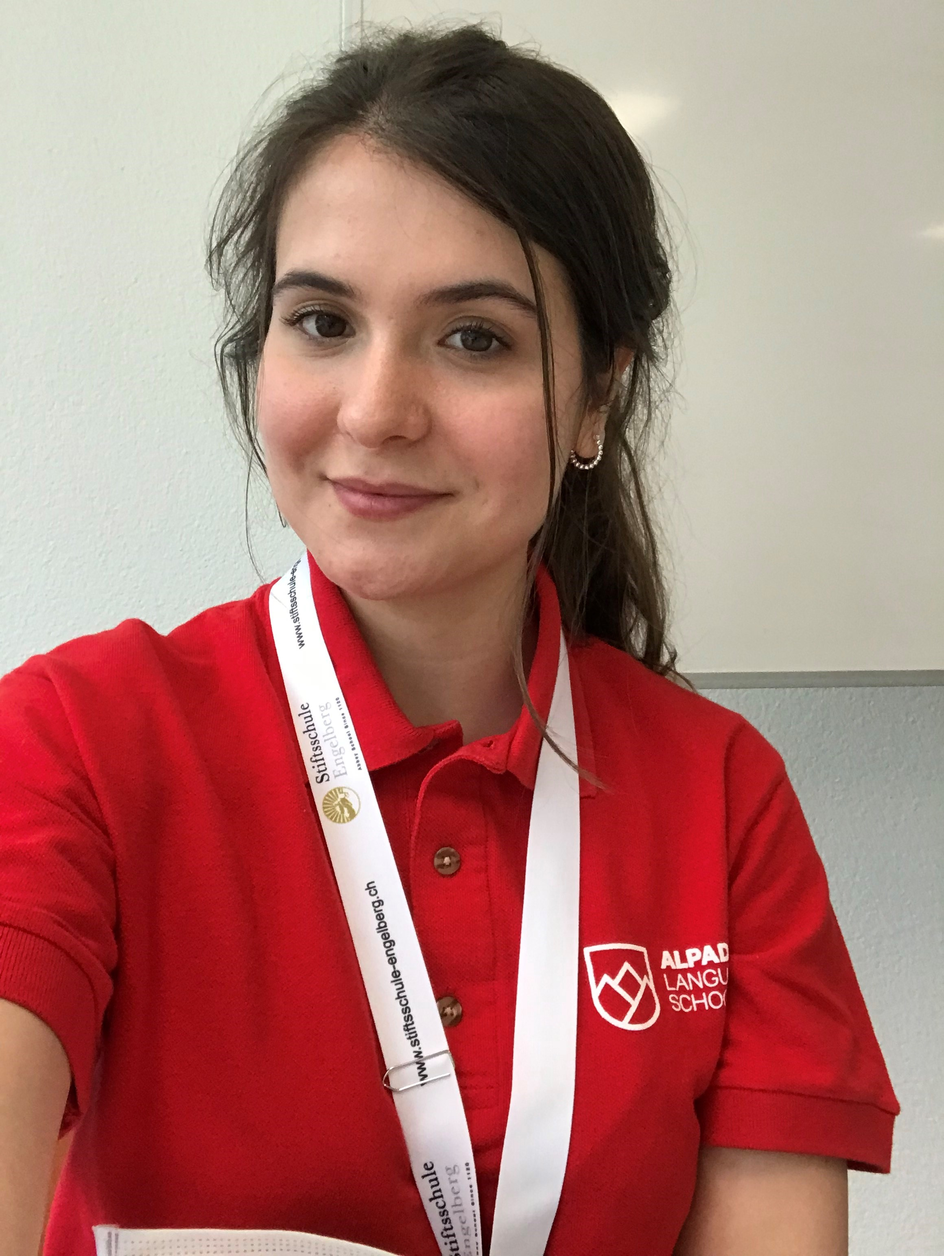
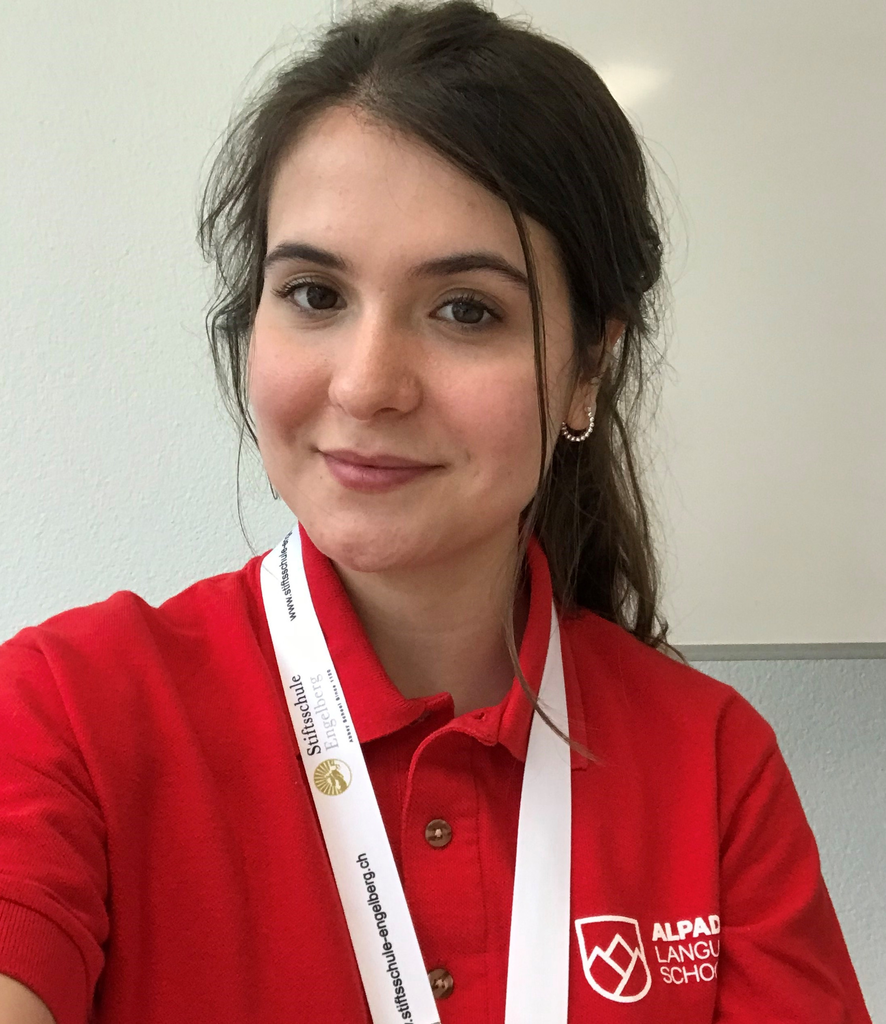
Improve image styling on blog post pages
Some of the images are _really big_ and they all have different
dimensions and aspect ratios. This limits them to 25em tall and centres
the content; portrait photos won't take up the entire width but
landscape ones will.

diff --git a/app/webpacker/styles/blog.scss b/app/webpacker/styles/blog.scss
@@ -111,6 +111,14 @@
       padding: .5em 0 .5em 1em;
       margin-top: 2.5em;
     }
+
+    img {
+      max-height: 25em;
+      max-width: 100%;
+      object-position: center;
+      width: fit-content;
+      object-fit: cover;
+    }
   }
 
   footer {
